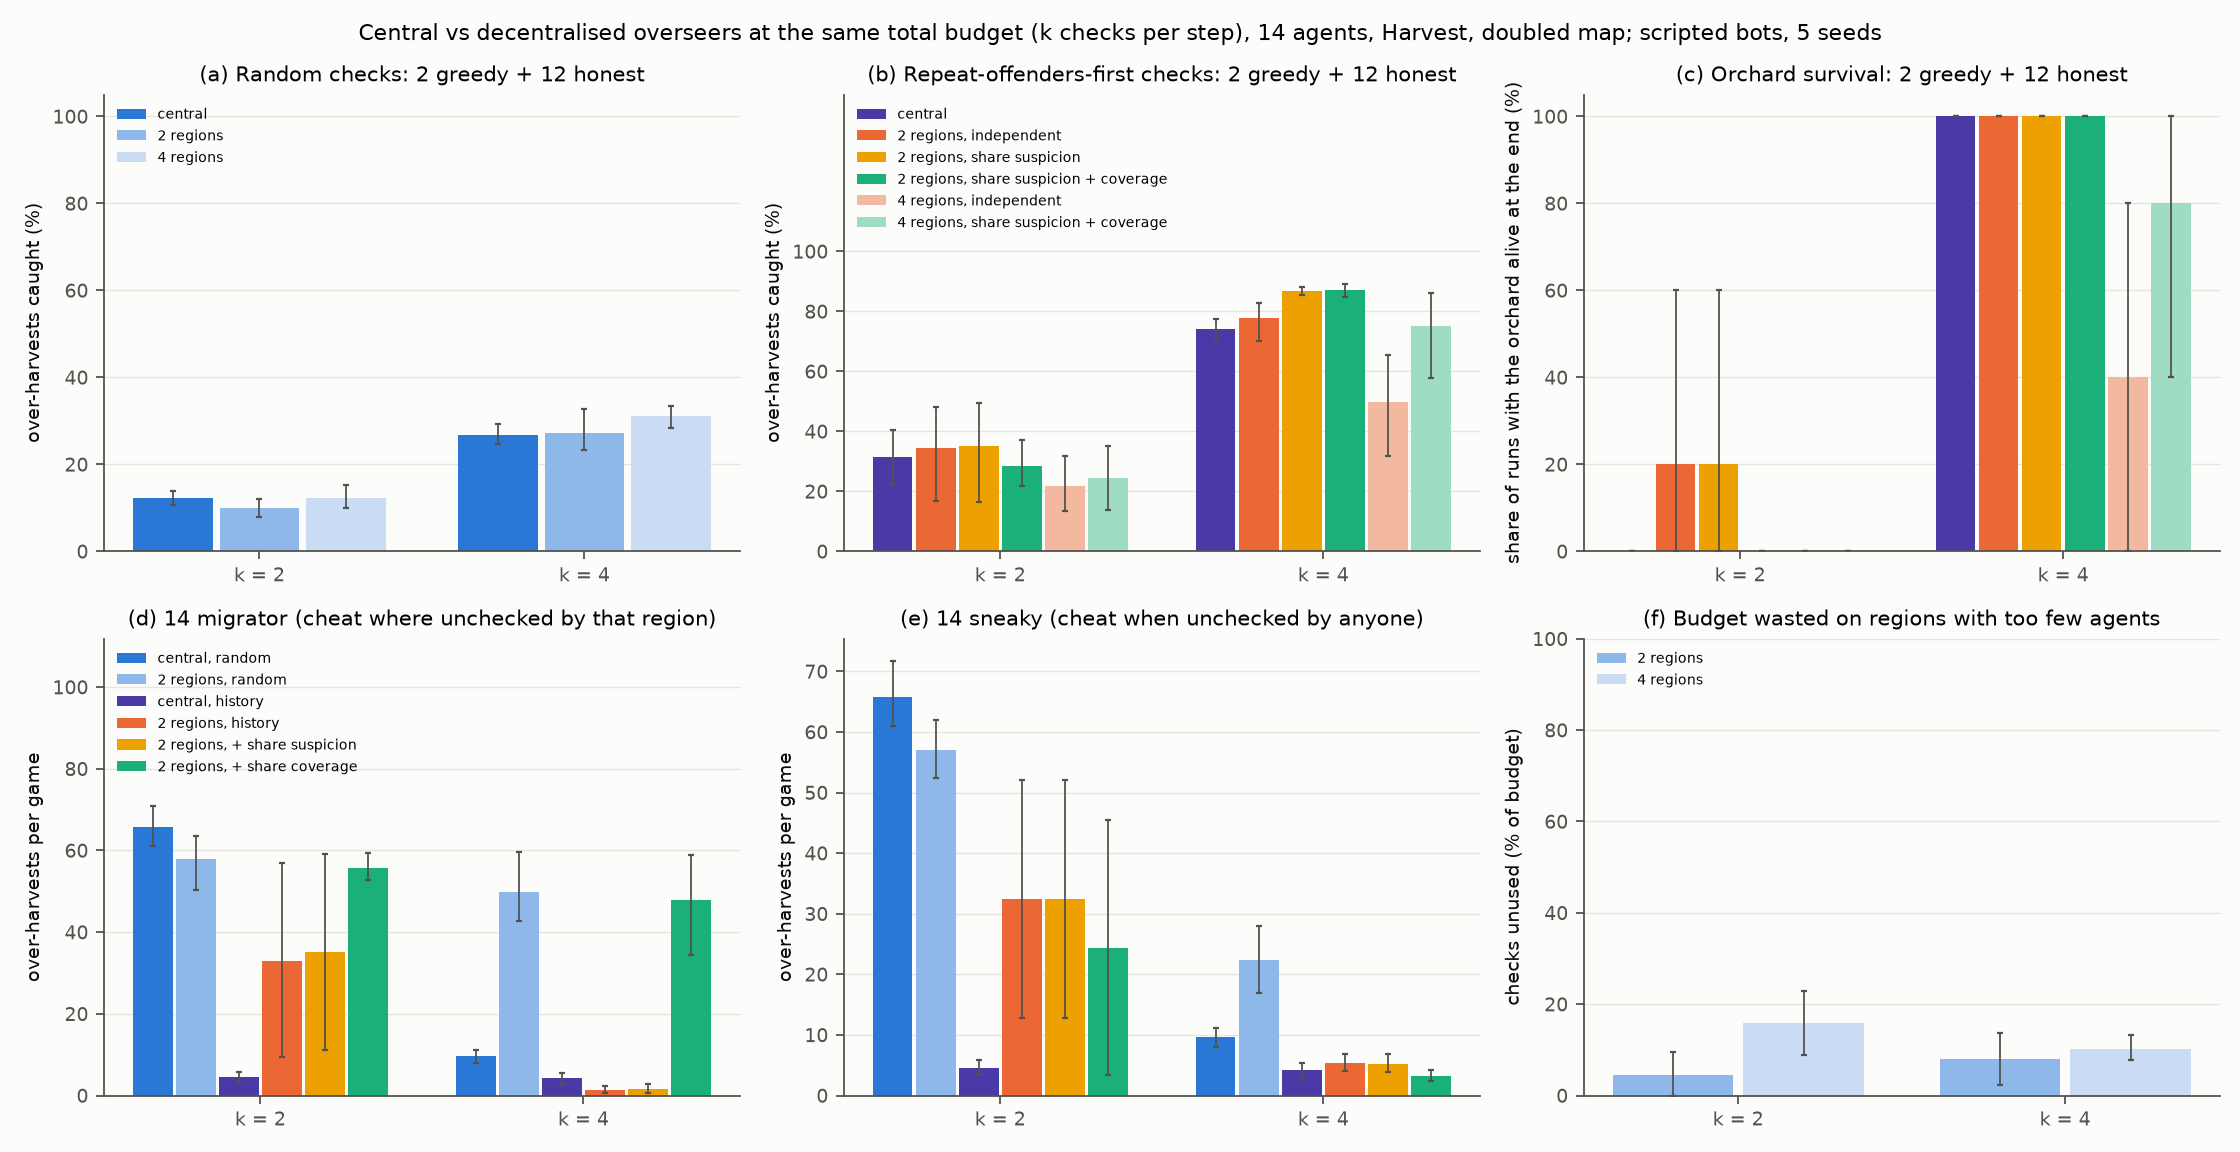
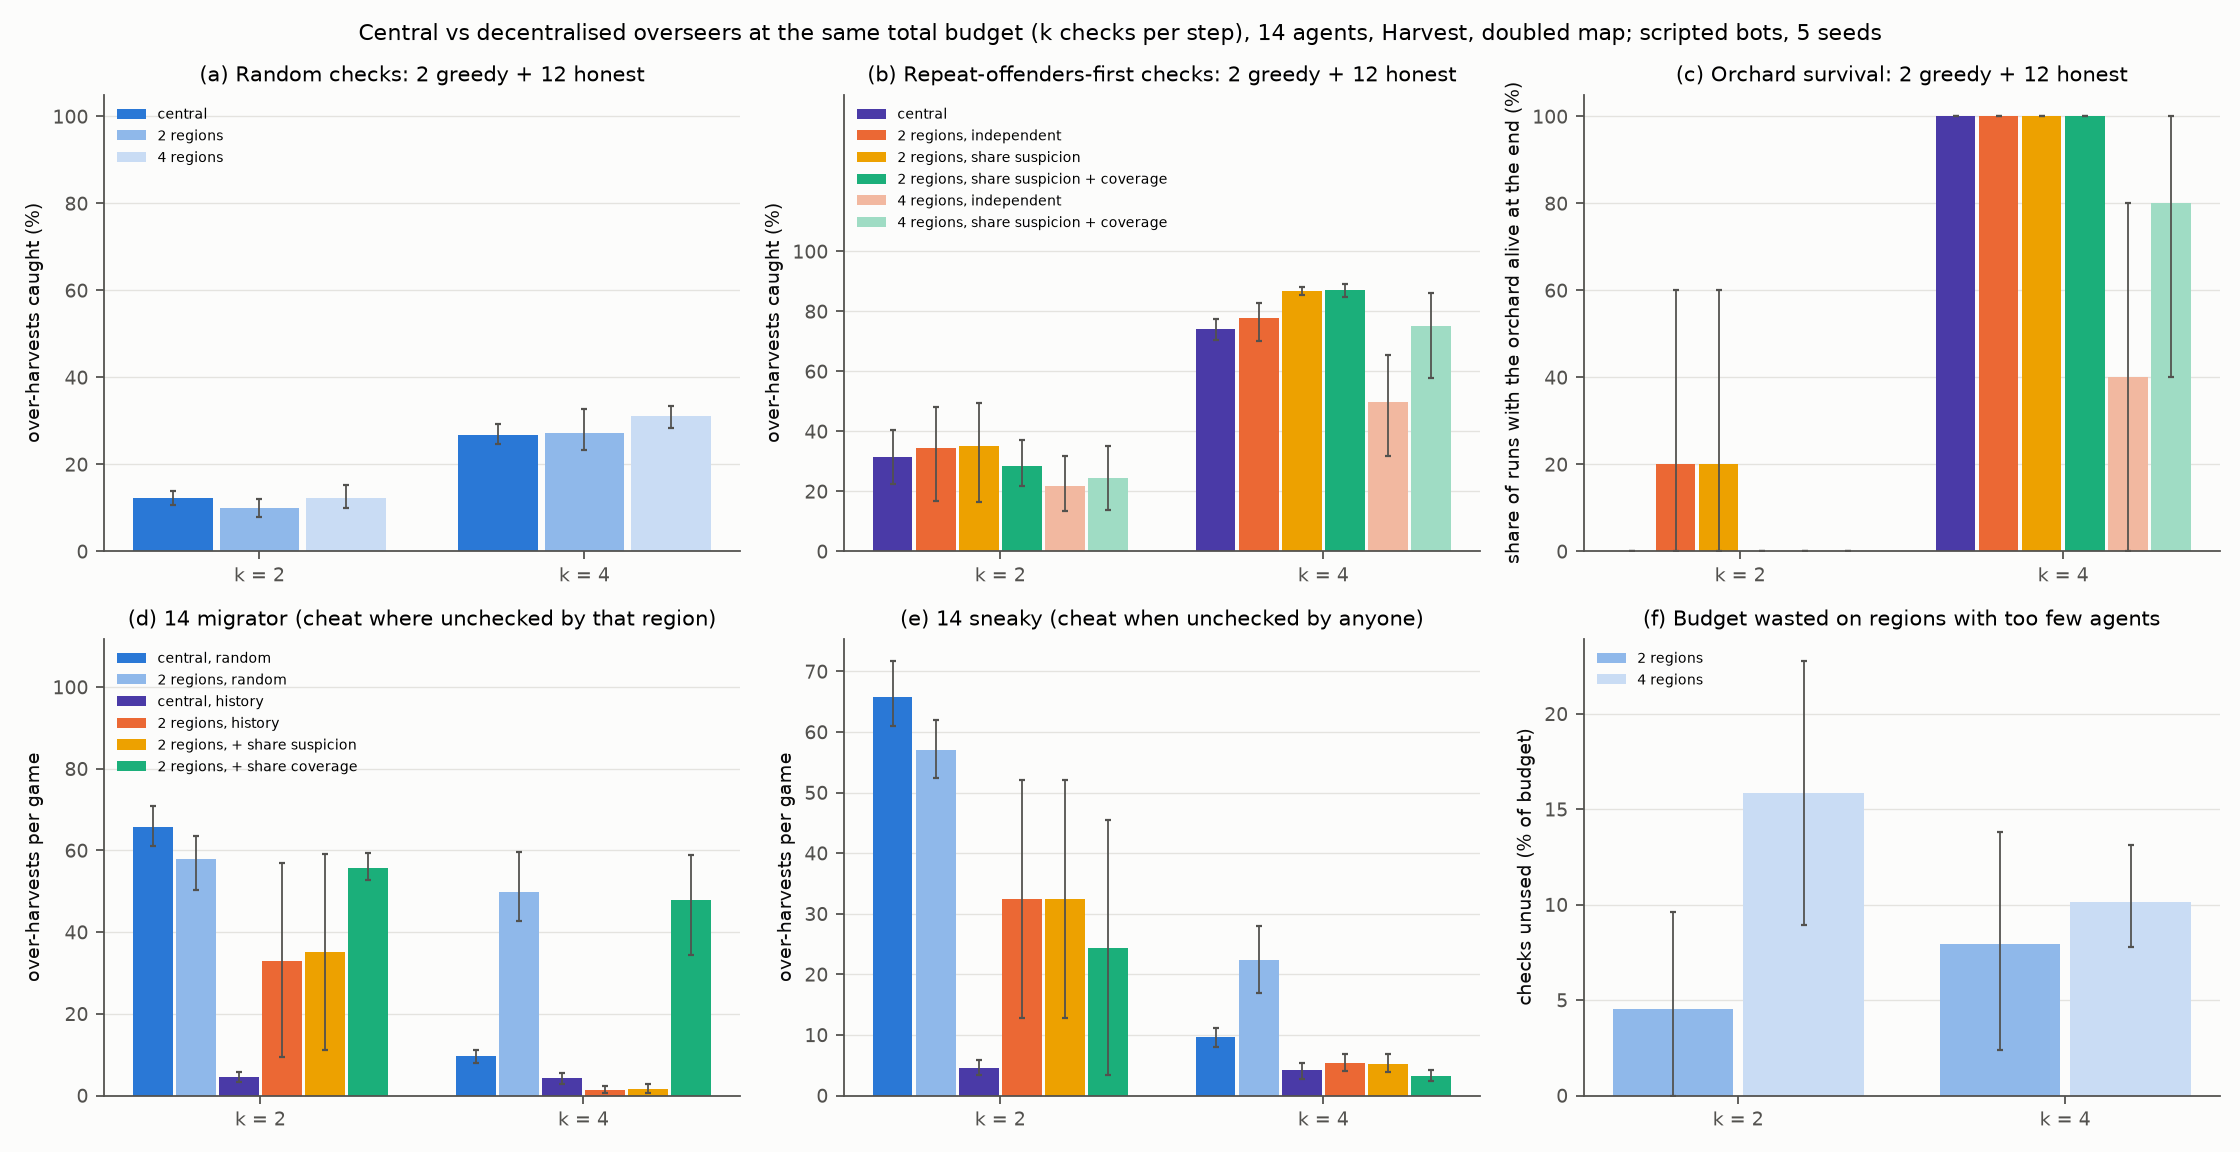
Figures: keep 0-100 ticks only on bounded percent panels

Changed region(s): [[0.7188, 0.6875, 1.0, 0.9375], [0.6562, 0.625, 0.7188, 0.875]]

diff --git a/experiments/socialjax/make_decentralised_figures.py b/experiments/socialjax/make_decentralised_figures.py
@@ -66,7 +66,7 @@ def grouped(ax, cells, pop, fn, groups, variants, ylabel, title, pct=False, lege
         ax.set_ylim(*ylim)
     if headroom != 1.0:
         ax.set_ylim(top=ax.get_ylim()[1] * headroom)
-    if pct:
+    if pct and ylim:
         ax.set_yticks(range(0, 101, 20))
     if legend:
         ax.legend(fontsize=6.5, ncol=1, loc="upper left")
